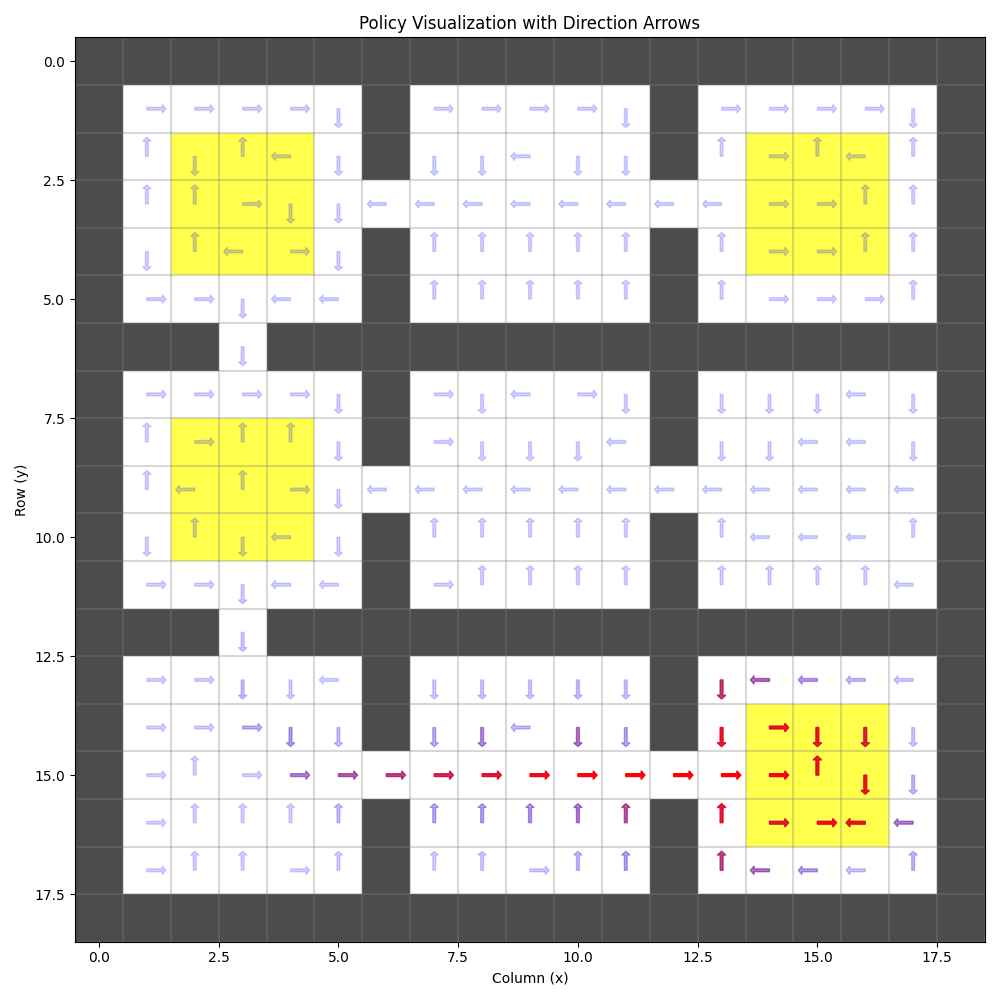
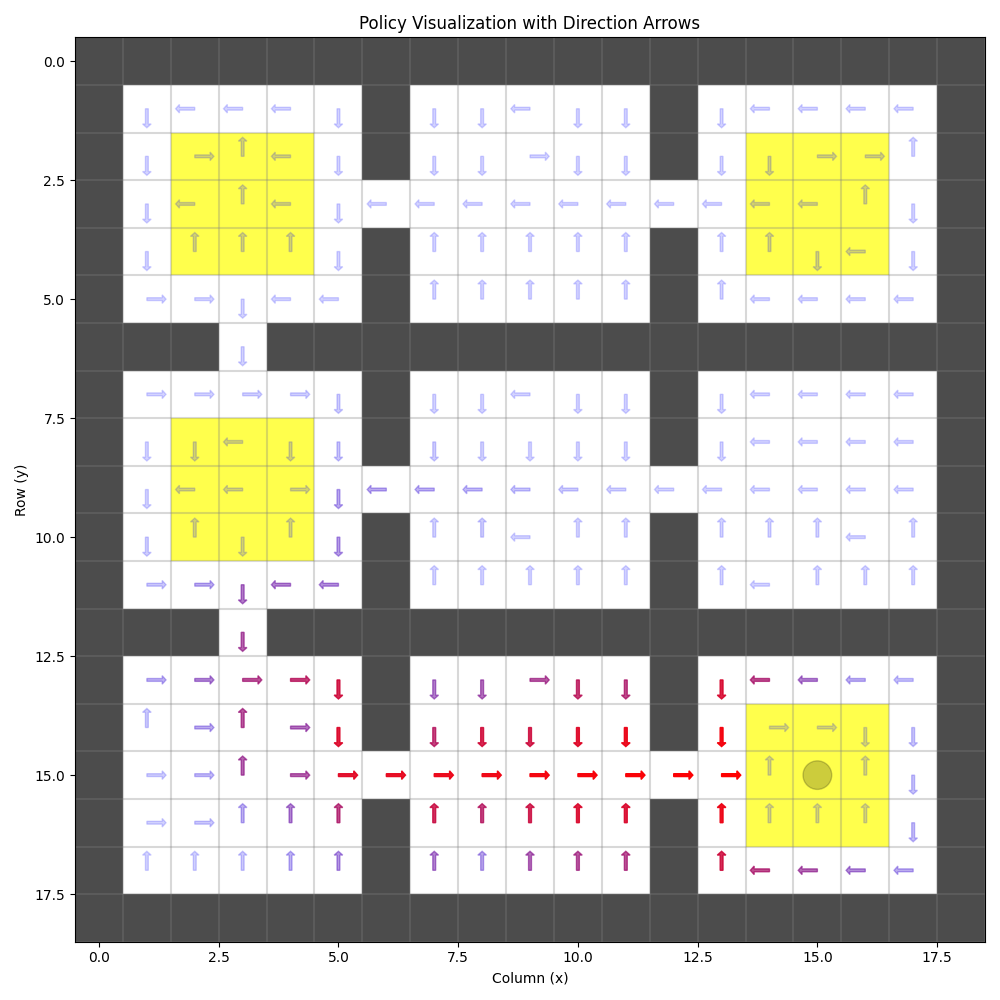
extend singular goal group encourage leaving

diff --git a/project/boolean_task.py b/project/boolean_task.py
@@ -55,7 +55,7 @@ class GoalOrientedBase:
         goal_regions = self.goal_regions
         # This section is for training elk to reach each goal iteratively.
         print(f"Beginning training non-goal starting points")
-        for iteration in range(num_iterations):
+        for iteration in range(num_iterations*1):
             random.shuffle(goal_regions)
             for gr, goal_region in goal_regions:
                 done_rate = 0
@@ -107,7 +107,7 @@ class GoalOrientedBase:
         for gmask, members in goal_groups:
             self.epsilon = epsilon  # reset epsilon
             self.env._first_restriction = True
-            for iteration in range(num_iterations):
+            for iteration in range(num_iterations*2):
                 random.shuffle(members)
                 for m in members:
                     done_rate = 0
@@ -121,18 +121,23 @@ class GoalOrientedBase:
                             all_reached_gr = []
                             training_finished = True
                             if done >= 2:
-                                for i, mask in goal_regions:
-                                    if mask[next_state[0], next_state[1]]:
-                                        all_reached_gr.append(i)
-                                if not all_reached_gr:
-                                    raise ValueError("Goal not reached, why done >= 2? Should check the code.")
-                                elif m not in all_reached_gr:
+                                if len(members) > 1:
+                                    for i, mask in goal_regions:
+                                        if mask[next_state[0], next_state[1]]:
+                                            all_reached_gr.append(i)
+                                    if not all_reached_gr:
+                                        raise ValueError("Goal not reached, why done >= 2? Should check the code.")
+                                if len(members) <= 1 or m not in all_reached_gr:
                                     reward = 0
                                     training_finished = False
                                     all_reached_gr = []
                             else:
                                 all_reached_gr = list(range(len(self.goal_regions)))
-                                reward = -10
+                                if len(members) <= 1:
+                                    all_reached_gr.remove(m)
+                                    reward = 1
+                                else:
+                                    reward = -10
 
                             self._train(state, action, reward, next_state, all_reached_gr)
                             if training_finished: 

diff --git a/project/learning.py b/project/learning.py
@@ -194,7 +194,7 @@ if __name__ == "__main__":
     pretrained = False    # Use the elk's existing knowledge
     goal_learner = GoalOrientedQLearning(room)
     if not pretrained:
-        goal_learner.train_episodes(num_episodes=50, num_iterations=5, max_steps_per_episode=100)
+        goal_learner.train_episodes(num_episodes=50, num_iterations=5, max_steps_per_episode=70)
         torch.save(goal_learner.Q, f"project/static/{elk_name}-q.pt")
     else:
         q_matrix = torch.load(f"project/static/{elk_name}-q.pt")
